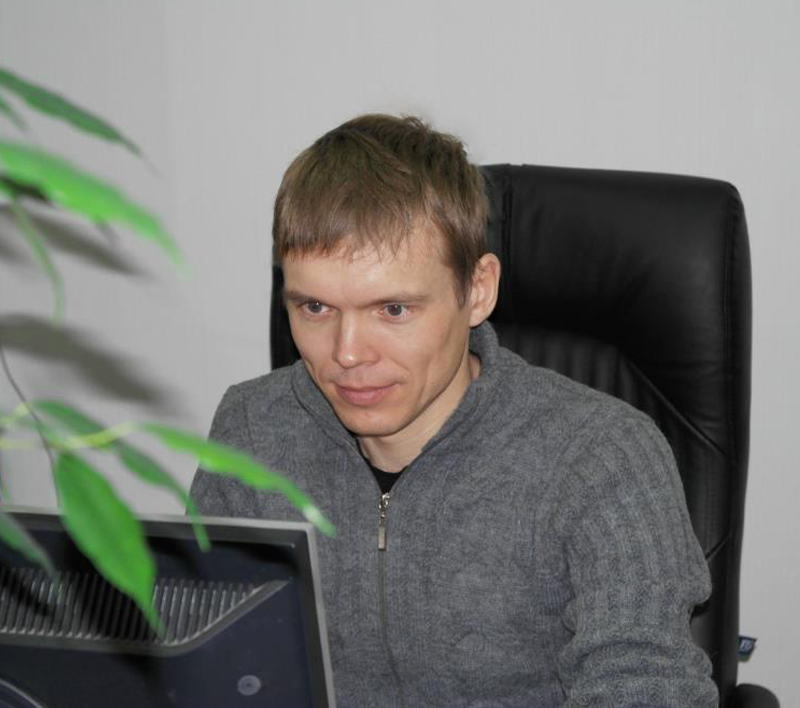
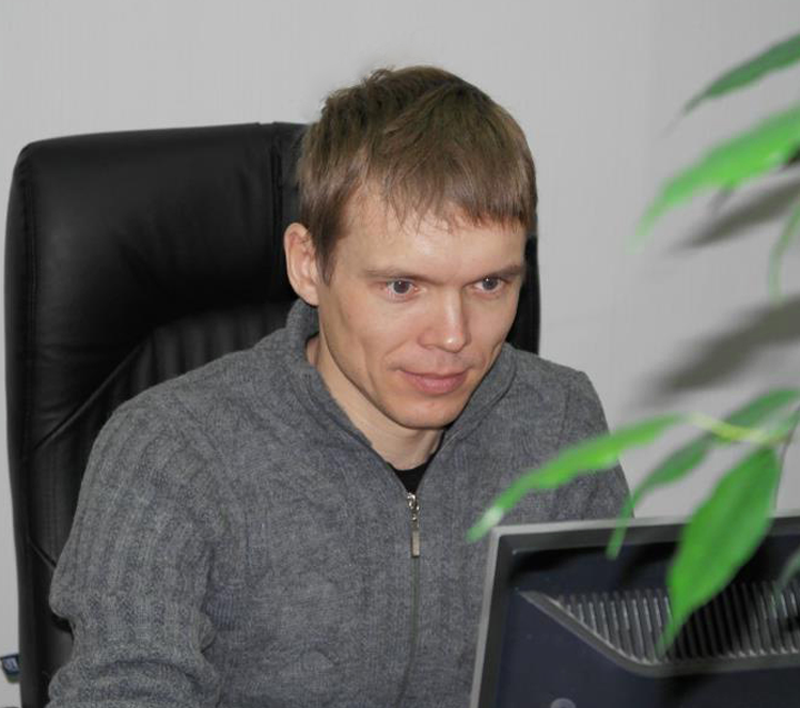
фото

diff --git a/index.html b/index.html
@@ -81,12 +81,12 @@
 
         <div class="row">
           <div class="col-xl-6 col-lg-7" data-aos="fade-right">
-            <img src="assets/img/about-img.jpg" class="img-fluid" alt="">
+            <img src="assets/img/about-img.png" class="img-fluid" alt="">
           </div>
           <div class="col-xl-6 col-lg-5 pt-5 pt-lg-0">
             <h3 data-aos="fade-up">Создаю рекламу для Автосервиса</h3>
             <p data-aos="fade-up"> Я Алексей Анатольев, 
-              Я в рекламе на Яндекс Директ и Гугл Реклама с 2014-го года. Получил 2 сертификата от Гугл.
+               в рекламе на Яндекс Директ и Гугл Реклама с 2014-го года. Получил 2 сертификата от Гугл.
             </p>
             <div class="icon-box" data-aos="fade-up">
               <i class="bx bx-receipt"></i>
